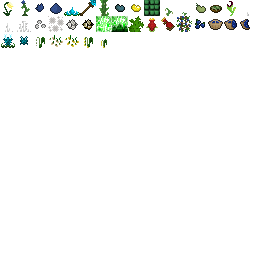
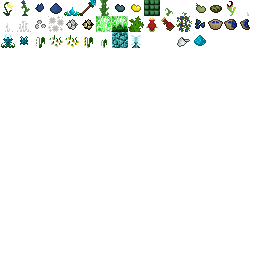
Added new item sprites to spritesheet, declared frozen netherrack and chillspike, removed a bit of pesky whitespace.

Changed region(s): [[0.4375, 0.125, 0.5625, 0.1875], [0.6875, 0.125, 0.8125, 0.1875]]

diff --git a/com/benzrf/toomanyplants/TMPObjectsDeclaration.java b/com/benzrf/toomanyplants/TMPObjectsDeclaration.java
@@ -153,4 +153,11 @@ public class TMPObjectsDeclaration
 	int gildedlilySeedsTexture;
 	int gildedlilySeedsId;
 	public Item itemgildedlilyseeds;
+	
+	int frozenNetherrackTexture;
+	int frozenNetherrackId;
+	public Block blockfrozennetherrack;
+	int chillspikeTexture;
+	int chillspikeId;
+	public Block blockchillspike;
 }

diff --git a/com/benzrf/toomanyplants/TMPObjectsInstantiation.java b/com/benzrf/toomanyplants/TMPObjectsInstantiation.java
@@ -24,7 +24,7 @@ import net.minecraft.src.World;
 import net.minecraftforge.common.Configuration;
 
 public class TMPObjectsInstantiation extends TMPObjectsDeclaration
-{	
+{
 	public void preInit(Configuration c)
 	{
 		initGlowFlower(c);
